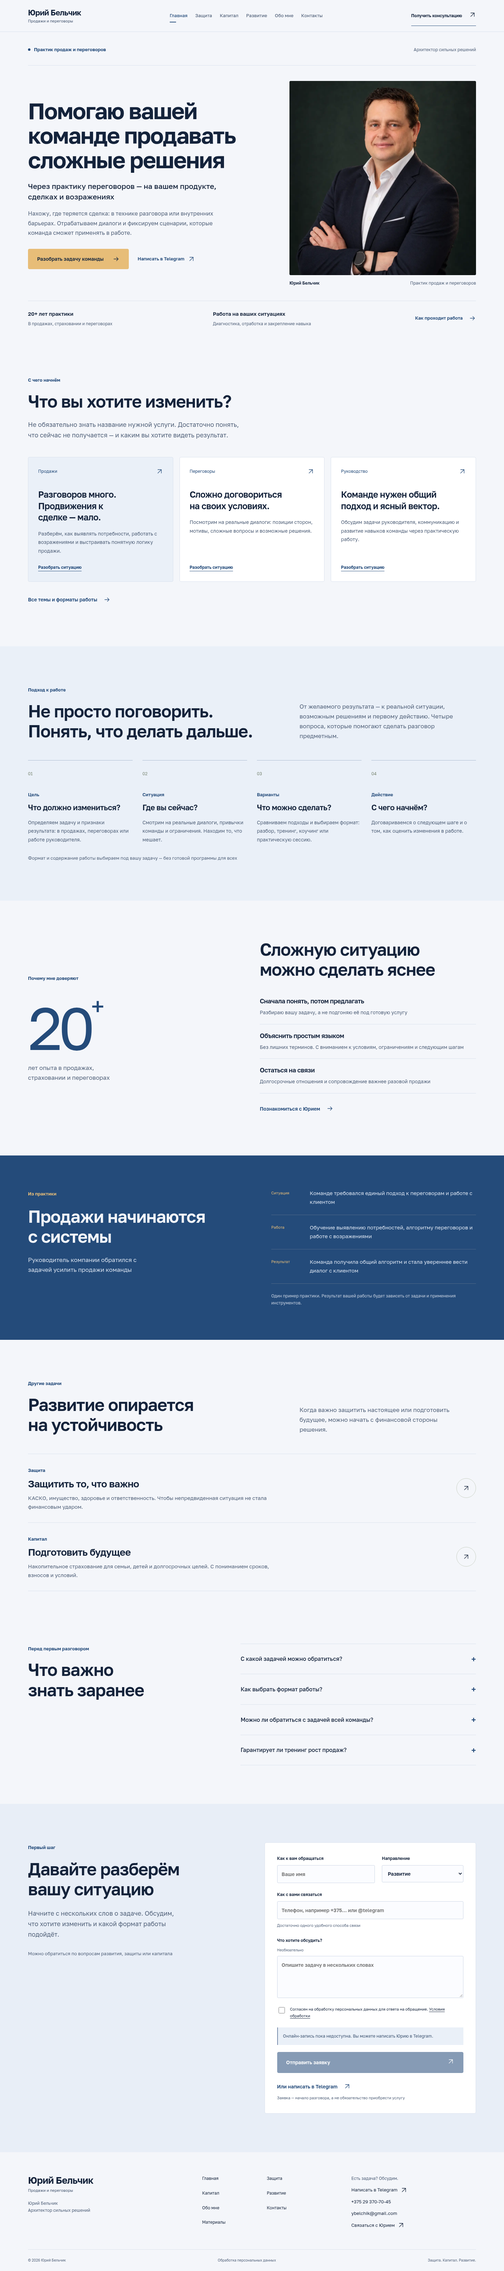
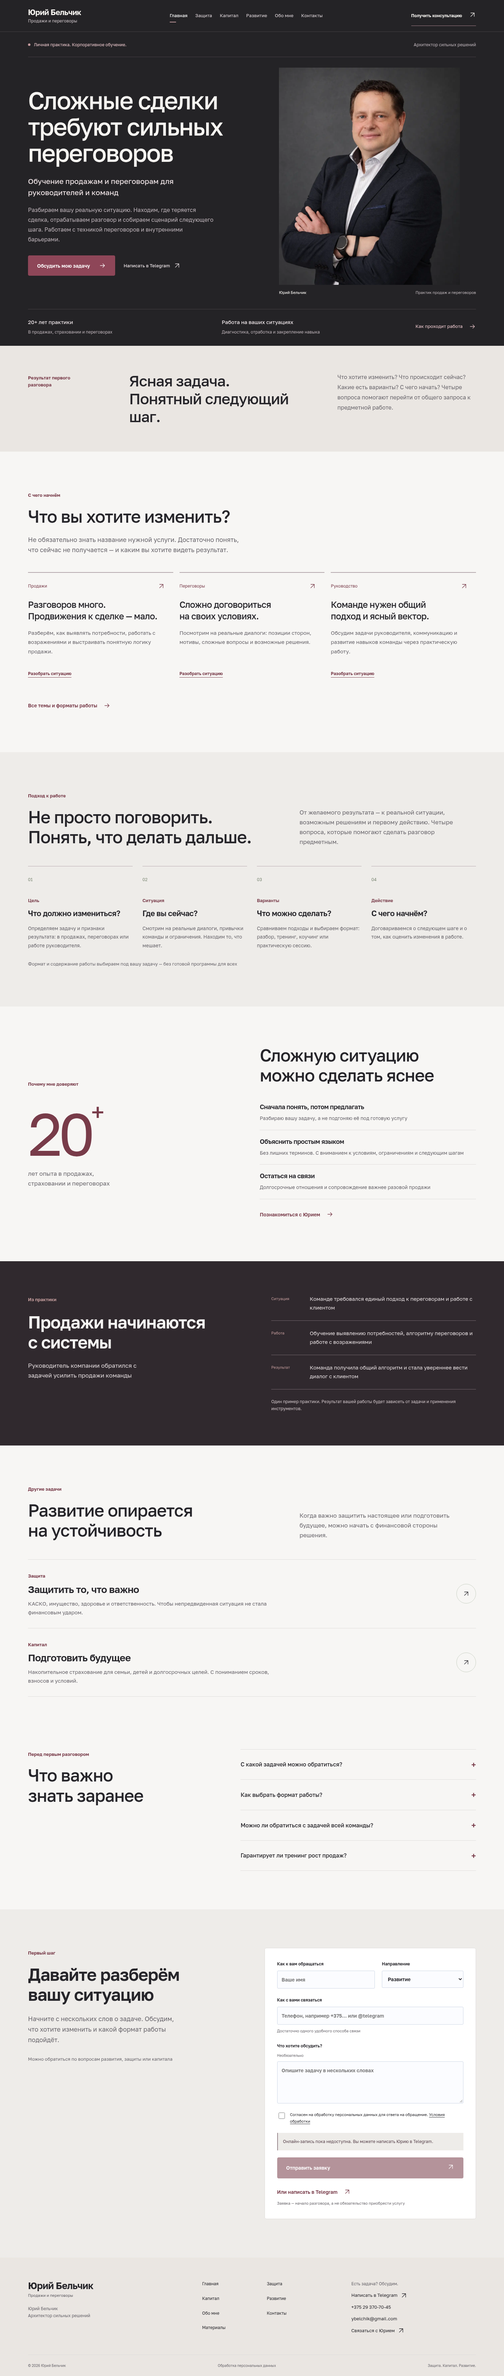
Refine business presentation with graphite palette and natural portrait

diff --git a/site/app/globals.css b/site/app/globals.css
@@ -1,13 +1,13 @@
 :root {
-  --paper: #f4f6fa;
+  --paper: #f7f6f4;
   --white: #fff;
-  --ink: #14233b;
-  --muted: #52627a;
-  --primary: #244b7a;
-  --primary-dark: #142d4d;
-  --accent: #e7bd78;
-  --line: #d9e1ed;
-  --soft: #eaf0f8;
+  --ink: #26252a;
+  --muted: #68656b;
+  --primary: #783b49;
+  --primary-dark: #382a30;
+  --accent: #c29b9b;
+  --line: #dedbda;
+  --soft: #eeece9;
 }
 * {
   box-sizing: border-box;
@@ -558,7 +558,7 @@ svg {
   gap: 28px;
 }
 .grow-step {
-  border-top: 1px solid #a7b7cf;
+  border-top: 1px solid #b5a7ad;
   padding-top: 23px;
 }
 .step-number {
@@ -631,13 +631,13 @@ svg {
   gap: 110px;
 }
 .case-section .eyebrow {
-  color: #e7bd78;
+  color: #c29b9b;
 }
 .case-section h2 {
   margin-top: 24px;
 }
 .case-section p {
-  color: #d6e0ee;
+  color: #e2dbdd;
 }
 .case-intro {
   font-size: 17px;
@@ -649,13 +649,13 @@ svg {
   grid-template-columns: 85px 1fr;
   gap: 25px;
   padding: 23px 0;
-  border-bottom: 1px solid #526a89;
+  border-bottom: 1px solid #776970;
 }
 .case-story > div:first-child {
   padding-top: 0;
 }
 .case-story > div > span {
-  color: #e7bd78;
+  color: #c29b9b;
   font-size: 11px;
   padding-top: 3px;
 }
@@ -667,7 +667,7 @@ svg {
   font-size: 12px;
   line-height: 1.7;
   margin-top: 25px;
-  color: #c4cfdf;
+  color: #d0c5c9;
 }
 .other-directions {
   border-top: 1px solid var(--line);
@@ -743,7 +743,7 @@ details > p {
   line-height: 1.8;
 }
 .cta-section {
-  background: #e6edf7;
+  background: #ede9e6;
   padding: 75px 0;
 }
 .cta-inner {
@@ -760,7 +760,7 @@ details > p {
   max-width: 560px;
   margin-top: 20px;
   font-size: 16px;
-  color: #405773;
+  color: #59434c;
 }
 .cta-inner .button {
   flex-shrink: 0;
@@ -839,7 +839,7 @@ details > p {
   margin-top: 32px;
 }
 .development-hero {
-  background: #e8eef7;
+  background: #eeece9;
 }
 .simple-grid {
   display: grid;
@@ -917,7 +917,7 @@ details > p {
   gap: 35px;
 }
 .format-grid > article {
-  border-top: 1px solid #adbbcf;
+  border-top: 1px solid #b8aeb2;
   padding-top: 24px;
 }
 .format-grid p {
@@ -934,7 +934,7 @@ details > p {
 }
 .benefit-list li {
   padding: 20px 0;
-  border-bottom: 1px solid #526a89;
+  border-bottom: 1px solid #776970;
   font-size: 20px;
   line-height: 1.4;
 }
@@ -1080,9 +1080,9 @@ details > p {
 .form-notice {
   padding: 15px;
   background: var(--soft);
-  border-left: 2px solid #7489a8;
+  border-left: 2px solid #96838a;
   font-size: 12px;
-  color: #3f5572;
+  color: #59434c;
   margin: 20px 0;
 }
 .form-error {
@@ -1917,7 +1917,7 @@ details > p {
   width: 100%;
 }
 .home-consultation {
-  background: #e8eef7;
+  background: #eeece9;
 }
 .home-consultation h2 {
   margin-top: 20px;
@@ -1934,8 +1934,15 @@ details > p {
 .portrait-frame img { object-position: 50% 15%; }
 
 /* Revised identity, typography and first-screen proposition. */
-h1,h2,h3{font-weight:600;letter-spacing:-.025em}body{line-height:1.65}.wordmark{display:flex;flex-direction:column;align-items:flex-start;gap:5px;font-size:22px;font-weight:650;letter-spacing:-.025em;white-space:nowrap;flex-shrink:0}.brand-name{line-height:1.15}.brand-tagline{font-size:11px;font-weight:450;color:var(--muted);letter-spacing:.005em;line-height:1.3}.main-nav{gap:22px}.header-inner{gap:25px}.hero-grid{grid-template-columns:1.28fr 1fr;gap:65px;padding:44px 0 40px}.hero-copy h1{font-size:clamp(44px,4.5vw,66px);font-weight:650;line-height:1.08;letter-spacing:-.035em;max-width:720px;text-wrap:balance}.hero-subtitle{font-size:21px;line-height:1.45;font-weight:500;max-width:560px;margin-top:25px}.hero-description{font-size:16px;line-height:1.7;max-width:560px;margin-top:20px}.hero-actions .button{background:#e7bd78;color:#17283f;border-color:#e7bd78;font-size:14px;min-height:58px}.hero-actions .button:hover{background:#f0ce96}.hero-actions .text-link{font-size:13px}.hero-proof{display:grid;grid-template-columns:1fr 1.1fr auto;gap:35px;align-items:center;border-top:1px solid var(--line);padding:24px 0 27px}.hero-proof>div{display:flex;flex-direction:column;gap:6px}.hero-proof strong{font-size:15px;font-weight:600}.hero-proof span{font-size:12px;color:var(--muted)}.hero-proof .text-link{font-size:13px}.portrait figcaption{font-size:12px}.section-intro .eyebrow,.eyebrow{font-size:13px}.footer-top .wordmark{font-size:27px}.cta-inner .button{background:var(--primary);color:white}.main-nav a{font-weight:450}.section-intro>p{line-height:1.65}
+h1,h2,h3{font-weight:600;letter-spacing:-.025em}body{line-height:1.65}.wordmark{display:flex;flex-direction:column;align-items:flex-start;gap:5px;font-size:22px;font-weight:650;letter-spacing:-.025em;white-space:nowrap;flex-shrink:0}.brand-name{line-height:1.15}.brand-tagline{font-size:11px;font-weight:450;color:var(--muted);letter-spacing:.005em;line-height:1.3}.main-nav{gap:22px}.header-inner{gap:25px}.hero-grid{grid-template-columns:1.28fr 1fr;gap:65px;padding:44px 0 40px}.hero-copy h1{font-size:clamp(44px,4.5vw,66px);font-weight:650;line-height:1.08;letter-spacing:-.035em;max-width:720px;text-wrap:balance}.hero-subtitle{font-size:21px;line-height:1.45;font-weight:500;max-width:560px;margin-top:25px}.hero-description{font-size:16px;line-height:1.7;max-width:560px;margin-top:20px}.hero-actions .button{background:#c29b9b;color:#282329;border-color:#c29b9b;font-size:14px;min-height:58px}.hero-actions .button:hover{background:#d8b9b7}.hero-actions .text-link{font-size:13px}.hero-proof{display:grid;grid-template-columns:1fr 1.1fr auto;gap:35px;align-items:center;border-top:1px solid var(--line);padding:24px 0 27px}.hero-proof>div{display:flex;flex-direction:column;gap:6px}.hero-proof strong{font-size:15px;font-weight:600}.hero-proof span{font-size:12px;color:var(--muted)}.hero-proof .text-link{font-size:13px}.portrait figcaption{font-size:12px}.section-intro .eyebrow,.eyebrow{font-size:13px}.footer-top .wordmark{font-size:27px}.cta-inner .button{background:var(--primary);color:white}.main-nav a{font-weight:450}.section-intro>p{line-height:1.65}
 @media(min-width:1500px){.hero-copy h1{font-size:70px}.hero-grid{padding-top:50px;padding-bottom:45px}}
 @media(max-width:1150px){.wordmark{font-size:21px}.main-nav{gap:16px}.header-inner{gap:18px}.header-consult{max-width:175px;font-size:11px}.hero-grid{gap:35px}.hero-copy h1{font-size:53px}.hero-subtitle{font-size:19px}.hero-description{font-size:15px}.hero-proof{gap:20px}}
 @media(max-width:900px){.main-nav{gap:15px}.wordmark{font-size:20px}.brand-tagline{font-size:10px}.hero-copy h1{font-size:43px}.hero-subtitle{font-size:17px}.hero-description{font-size:14px}.hero-grid{gap:28px}.hero-proof{grid-template-columns:1fr 1fr;gap:20px}.hero-proof .text-link{grid-column:1/-1}.hero-proof strong{font-size:14px}}
 @media(max-width:650px){.wordmark{font-size:21px;gap:4px}.brand-tagline{font-size:10px}.header-inner{height:78px}.main-nav{top:78px}.hero-copy h1{font-size:clamp(35px,9.6vw,49px);font-weight:650;line-height:1.12;letter-spacing:-.03em}.hero-grid{grid-template-columns:1fr;padding-top:28px;padding-bottom:30px;gap:35px}.hero-subtitle{font-size:20px;max-width:none;line-height:1.45;margin-top:22px}.hero-description{font-size:16px;line-height:1.7;max-width:none;margin-top:19px}.hero-actions{gap:17px;margin-top:27px}.hero-actions .button{font-size:14px;width:100%;justify-content:space-between}.hero-actions .text-link{font-size:14px}.hero-proof{grid-template-columns:1fr;gap:23px;padding:25px 0}.hero-proof .text-link{grid-column:auto}.hero-proof strong{font-size:16px}.hero-proof span{font-size:13px}.hero-topline .eyebrow{font-size:11px}.hero-descriptor{font-size:10px;max-width:115px}.portrait figcaption{font-size:11px}.footer-top .wordmark{font-size:26px}.hero-portrait .portrait-frame{aspect-ratio:4/4.5}}
+
+/* Executive editorial direction: one immersive opening scene, restrained wine accents. */
+.site-header{background:#242326;border-bottom:1px solid #454145;color:#f7f5f1}.site-header .brand-tagline{color:#c1b9bd;font-size:12px}.site-header .main-nav a{color:#d0c8cc}.site-header .main-nav a:hover,.site-header .main-nav a[aria-current=page]{color:white}.site-header .main-nav a[aria-current=page]:after{background:#c49a9e}.header-consult{color:#f7f5f1;border-color:#aa858e;font-size:12px}.hero{background:#242326;color:#f7f5f1;padding-top:27px}.hero-topline{border-color:#484146;padding-bottom:24px}.hero .eyebrow{color:#e0bec3;font-size:12px;font-weight:450}.hero .status-dot{background:#c49a9e}.hero-descriptor{color:#bfb5bb}.hero-grid{grid-template-columns:1.15fr 1fr;gap:70px;padding:30px 0 38px}.hero-copy h1{font-size:clamp(46px,4.8vw,70px);font-weight:500;letter-spacing:-.035em;line-height:1.08;max-width:670px}.hero-subtitle{color:#f0e5e7;font-size:21px;font-weight:450;line-height:1.5;max-width:550px;margin-top:29px}.hero-description{color:#bfb5bb;font-size:16px;max-width:530px;line-height:1.75;margin-top:20px}.hero-actions{gap:24px;margin-top:32px}.hero-actions .button{background:#8e4658;border-color:#8e4658;color:#fff;min-height:58px}.hero-actions .button:hover{background:#a45569}.hero-actions .text-link{color:#eee5e8;font-weight:450}.hero-portrait .portrait-frame{aspect-ratio:4/4.8;max-height:620px;border-radius:0;background:#444143}.hero-portrait .portrait-frame img{object-position:50% 15%}.hero-portrait figcaption{color:#c1b9bd;font-size:11px}.hero-portrait figcaption span:first-child{color:#f7f5f1;font-weight:450}.hero-proof{border-color:#484146;grid-template-columns:1fr 1fr auto;padding:24px 0 30px}.hero-proof strong{font-size:15px;font-weight:450;color:#f0e8eb}.hero-proof span{color:#bfb5bb}.hero-proof .text-link{color:#e0bec3;font-weight:450}.executive-brief{padding:75px 0;background:#eae6e2}.executive-brief-inner{display:grid;grid-template-columns:.65fr 1.5fr 1.1fr;gap:55px;align-items:start}.executive-brief h2{font-size:clamp(30px,3vw,44px);font-weight:500;line-height:1.17}.executive-brief p{font-size:16px;line-height:1.8}.executive-brief .eyebrow{max-width:150px;padding-top:7px}.task-card{border:0;border-top:2px solid #b2a5aa;border-radius:0;background:transparent;padding:28px 24px 30px 0}.task-card:first-child{background:transparent}.task-card-top{margin-bottom:27px}.task-card h3{font-size:25px;font-weight:500}.task-card p{font-size:15px}.section-intro h2,.trust-body h2{font-weight:500}.case-section{background:#30292e}.cta-section{background:#eae6e2}.cta-inner .button{background:#783b49;border-color:#783b49}.home-consultation{background:#eeece9}.portrait-frame{border-radius:0}.format-grid h3{font-weight:500}.site-footer{background:#eae6e2}.speaking-photo img{border-radius:0}
+@media(min-width:1500px){.hero-copy h1{font-size:76px}.hero-grid{gap:85px}.hero-portrait .portrait-frame{max-height:660px}}
+@media(max-width:1150px){.hero-copy h1{font-size:55px}.hero-grid{gap:38px}.executive-brief-inner{gap:30px;grid-template-columns:.7fr 1.4fr 1.2fr}}
+@media(max-width:900px){.hero-copy h1{font-size:45px}.hero-subtitle{font-size:18px}.hero-description{font-size:15px}.hero-grid{gap:28px}.hero-proof{grid-template-columns:1fr 1fr}.hero-proof .text-link{grid-column:1/-1}.executive-brief-inner{grid-template-columns:1fr 1.5fr;gap:25px}.executive-brief-inner>.eyebrow{grid-column:1/-1;max-width:none}}
+@media(max-width:650px){.menu-toggle{color:#f4edef}.site-header .main-nav{background:#242326;border-color:#484146}.site-header .main-nav .mobile-consult{background:#8e4658}.hero{padding-top:22px}.hero-grid{grid-template-columns:1fr;padding-top:27px;gap:30px}.hero-copy h1{font-size:clamp(38px,10vw,50px);line-height:1.1;font-weight:500}.hero-subtitle{font-size:20px;margin-top:24px}.hero-description{font-size:16px;line-height:1.7}.hero-topline .eyebrow{max-width:175px;font-size:10px;line-height:1.7}.hero-descriptor{font-size:10px}.hero-actions .button{width:100%;justify-content:space-between}.hero-actions .text-link{font-size:14px}.hero-portrait .portrait-frame{aspect-ratio:4/4.7;max-height:none}.hero-proof{grid-template-columns:1fr;gap:23px}.hero-proof .text-link{grid-column:auto}.executive-brief{padding:45px 0}.executive-brief-inner{grid-template-columns:1fr;gap:20px}.executive-brief h2{font-size:34px}.executive-brief p{font-size:15px}.task-card{padding:25px 0}.site-header .brand-tagline{font-size:11px}}

diff --git a/site/app/page.tsx b/site/app/page.tsx
@@ -16,7 +16,7 @@ export default function Home() {
         "@id": `${siteUrl}/#yuri`,
         name: "Юрий Бельчик",
         url: siteUrl,
-        image: `${siteUrl}/images/yuri-belchik-portrait-retouched.png`,
+        image: `${siteUrl}/images/yuri-belchik-natural.png`,
         telephone: contact.phone,
         email: contact.email,
         sameAs: [contact.telegram],
@@ -52,7 +52,7 @@ export default function Home() {
           <div className="hero-topline">
             <span className="eyebrow">
               <span className="status-dot" />
-              Практик продаж и переговоров
+              Личная практика. Корпоративное обучение.
             </span>
             <span className="hero-descriptor">Архитектор сильных решений</span>
           </div>
@@ -63,7 +63,7 @@ export default function Home() {
               <p className="hero-description">{proposition.description}</p>
               <div className="hero-actions">
                 <Link href={consultation()} className="button">
-                  Разобрать задачу команды <Arrow />
+                  Обсудить мою задачу <Arrow />
                 </Link>
                 {contact.telegram ? (
                   <a
@@ -89,6 +89,7 @@ export default function Home() {
           </div>
         </div>
       </section>
+      <section className="executive-brief"><div className="container executive-brief-inner"><span className="eyebrow">Результат первого разговора</span><h2>Ясная задача.<br/>Понятный следующий шаг.</h2><p>Что хотите изменить? Что происходит сейчас? Какие есть варианты? С чего начать? Четыре вопроса помогают перейти от общего запроса к предметной работе.</p></div></section>
       <section id="tasks" className="section">
         <div className="container">
           <SectionIntro

diff --git a/site/app/razvitie/page.tsx b/site/app/razvitie/page.tsx
@@ -72,7 +72,7 @@ export default function Development() {
         </div>
       </section>
       <section className="section speaking-section"><div className="container speaking-layout">
-        <figure className="speaking-photo"><Image src="/images/yuri-belchik-speaking-retouched.png" alt="Юрий Бельчик выступает перед аудиторией" width={1536} height={1024} sizes="(max-width: 650px) 100vw, 55vw" /></figure>
+        <figure className="speaking-photo"><Image src="/images/yuri-belchik-speaking.jpg" alt="Юрий Бельчик выступает перед аудиторией" width={1280} height={853} sizes="(max-width: 650px) 100vw, 55vw" /></figure>
         <div><SectionIntro label="Команды и аудитории" title="Практика, которую можно перенести в работу" text="Выступаю как спикер и провожу корпоративные тренинги для отделов продаж. Разбираем реальные переговоры, возражения, разговоры о деньгах и сложные продукты."/><p>Сначала — диагностика текущих диалогов. Затем — отработка формулировок и закрепление навыков с понятными критериями качества.</p><Link className="text-link" href={consultation()}>Обсудить выступление или тренинг <Arrow /></Link></div>
       </div></section>
       <section className="section">

diff --git a/site/lib/site.ts b/site/lib/site.ts
@@ -14,9 +14,9 @@ export const navigation = [
   ["/kontakty", "Контакты"],
 ];
 export const proposition = {
-  headline: "Помогаю вашей команде продавать сложные решения",
-  subheadline: "Через практику переговоров — на вашем продукте, сделках и возражениях",
-  description: "Нахожу, где теряется сделка: в технике разговора или внутренних барьерах. Отрабатываем диалоги и фиксируем сценарии, которые команда сможет применять в работе.",
+  headline: "Сложные сделки требуют сильных переговоров",
+  subheadline: "Обучение продажам и переговорам для руководителей и команд",
+  description: "Разбираем вашу реальную ситуацию. Находим, где теряется сделка, отрабатываем разговор и собираем сценарий следующего шага. Работаем с техникой переговоров и внутренними барьерами.",
 };
 export const directions = [
   {

diff --git a/site/components/portrait.tsx b/site/components/portrait.tsx
@@ -1,7 +1,7 @@
 import Image from "next/image";
 export function Portrait({ hero = false }: { hero?: boolean }) {
   return <figure className={hero ? "portrait hero-portrait" : "portrait about-portrait"}>
-    <div className="portrait-frame"><Image src="/images/yuri-belchik-portrait-retouched.png" alt="Юрий Бельчик — практик продаж и переговоров" fill sizes={hero ? "(max-width: 650px) 100vw, 45vw" : "(max-width: 650px) 100vw, 40vw"} preload={hero} /></div>
+    <div className="portrait-frame"><Image src="/images/yuri-belchik-natural.png" alt="Юрий Бельчик — практик продаж и переговоров" fill sizes={hero ? "(max-width: 650px) 100vw, 45vw" : "(max-width: 650px) 100vw, 40vw"} preload={hero} /></div>
     <figcaption><span>Юрий Бельчик</span><span>Практик продаж и переговоров</span></figcaption>
   </figure>;
 }

diff --git a/site/app/opengraph-image.tsx b/site/app/opengraph-image.tsx
@@ -7,7 +7,7 @@ export default function Image() {
   return new ImageResponse(
     <div
       style={{
-        background: "#142d4d",
+        background: "#242326",
         color: "#f4f6fa",
         width: "100%",
         height: "100%",
@@ -35,9 +35,9 @@ export default function Image() {
           maxWidth: 1000,
         }}
       >
-        Помогаю командам продавать сложные решения
+        Сложные сделки требуют сильных переговоров
       </div>
-      <div style={{ fontSize: 27, display: "flex", color: "#e7bd78" }}>
+      <div style={{ fontSize: 27, display: "flex", color: "#d0b6bd" }}>
         Продажи • Переговоры • Развитие руководителей
       </div>
     </div>,

diff --git a/BRAND_BOOK.md b/BRAND_BOOK.md
@@ -1,18 +1,13 @@
-# CKB.by — визуальная система MVP
+# CKB.by — актуальная визуальная система
 
-Приоритет: развитие. Тон — спокойный практик, который помогает разобраться и выбрать действие. Бренд «Юрий Бельчик — архитектор сильных решений» сохранён.
+Приоритет — продажи и переговоры для руководителей и команд. В шапке полное имя Юрий Бельчик и направление работы. УТП: «Сложные сделки требуют сильных переговоров». Формулировка раскрывается через разбор реальной ситуации, отработку разговора и сценарий следующего шага.
 
-Цвета: почти белый #F7F8F4, графит #202D29, глубокий зелёный #214B3E, мягкий зелёный #EDF0E8 и акцент #DCE7BE. Текст #63716A; границы #D9DED5. Без градиентов, неона и тяжёлых теней.
+Палитра: графит #242326 на первом экране и в шапке, светлый фон #F7F6F4, основной текст #26252A, винный акцент #783B49, кнопка на тёмном фоне #8E4658, светлые разделы #EAE6E2. Без зелёного, синего и золота.
 
-Шрифт: Manrope Variable, локально из npm-пакета @fontsource-variable/manrope с кириллицей и лицензией OFL; запросов к Google Fonts нет. Заголовки 33–88px по ширине экрана, основной текст 14–21px. Размеры и интервалы адаптивные; поля форм на мобильном от 16px.
+Шрифт Golos Text Variable с кириллицей, локально из npm-пакета, лицензия OFL. Крупные заголовки умеренной насыщенности, спокойная редакционная композиция и открытые колонки вместо повторяющихся карточек.
 
-Композиция: крупные три строки «Продажи. Переговоры. Развитие.», рядом схема ситуации и решения; затем три конкретных запроса, четыре шага обсуждения, опыт и принципы, кейс команды, дополнительные направления, FAQ, форма. Разные силуэты и плотность секций.
+Первый экран: конкретное предложение, крупный портрет, кнопка «Обсудить мою задачу». Следующий блок объясняет результат первого разговора. GROW используется для построения пути: цель, текущая ситуация, варианты, действие. Рост конверсии без измерений не заявляется.
 
-Графика: CSS-схема пути и монограмма ЮБ являются абстрактными элементами. Они не изображают реального человека; портрет пока отсутствует. Стрелки в интерфейсе — SVG, без зависимости от наличия редких символов в шрифте.
+Портрет yuri-belchik-natural.png заново обработан от исходного IMG_2499-scaled.jpg: нейтральный фон и свет, с указанием сохранить возраст, черты и фактуру кожи. Это генеративная обработка, не оригинальный снимок. На странице развития используется исходная фотография выступления. Оригиналы сохранены.
 
-Поведение: сдержанные hover, видимый фокус, Escape закрывает мобильное меню. Reduced-motion убирает переходы и плавную прокрутку. Нет навязчивых popup.
-
-Обновление: вместо схемы на первом экране используется реальный портрет с CKB.by; в биографии он заменяет монограмму. В развитии — фото выступления. Исходные фото не меняются; кадрирование выполняется адаптивным CSS, доставка — через next/image.
-
-## Актуальная версия после пересмотра
-Прежняя зелёная палитра и Manrope отклонены пользователем. Теперь: #F4F6FA фон, #14233B основной текст, #244B7A синий, #142D4D тёмный, #E7BD78 золотистый акцент, #EAF0F8 мягкое поле. Golos Text Variable (OFL), локально с кириллицей. Заголовки плотнее, letter-spacing от -0.025 до -0.035em. Бренд в шапке — полное имя и «Продажи и переговоры». Первый экран сообщает услугу, аудиторию, механизм и прикладной выход; УТП хранится централизованно в lib/site.ts.
+Адаптивная сетка, видимый фокус, мобильное меню с Escape и поддержка reduced-motion сохраняются.

diff --git a/PROJECT.md b/PROJECT.md
@@ -66,3 +66,6 @@ Install/start instructions сохранены в черновике среды; 
 
 ## Новая обратная связь: палитра, типографика и УТП
 Пользователь отклонил прежние зелёные цвета, Manrope и буквенное ckb.by в шапке; уточнил, что под «OTP» понимает УТП. Текущая версия: имя Юрий Бельчик с подписью «Продажи и переговоры» в шапке и подвале, глубокий синий/светлый фон/золотистый акцент, Golos Text Variable с кириллицей. УТП вынесено в lib/site.ts proposition: помощь командам продавать сложные решения через практику на их продукте, сделках и возражениях, с диагностикой техники и внутренних барьеров и рабочими сценариями. Не обещаются гарантии роста выручки, сроки или бесплатность. Предыдущую палитру/шрифт/логотип не возвращать. Отретушированные фото сохранены.
+
+## GROW-пересмотр визуальной подачи
+Пользователь повторно отклонил палитру, назвал подачу простой, попросил натуральное лицо и системную работу через GROW. Цель: вызвать интерес делового клиента; реальность: прежняя обработка искусственна и композиция шаблонна; вариант: цельный графитовый первый экран, винный акцент, светлые редакционные блоки, оригинал выступления; действие: обработать портрет заново от оригинала без омоложения и изменения черт, проверить адаптивность и опубликовать. Новый портрет yuri-belchik-natural.png генеративно обработан от исходного JPG; старые исходники сохранены. В развитии восстановлено оригинальное фото выступления. УТП первого экрана: сложные сделки требуют сильных переговоров; услуга и аудитория указаны прямо. Не обещать автоматический рост продаж.

diff --git a/review/validation.md b/review/validation.md
@@ -32,3 +32,8 @@
 
 ## Пересмотр палитры, шрифта и УТП
 После уточнения пользователя «OTP» означает УТП. Изменены шапка/подвал на полное имя, палитра на синий/светлый/золотистый, локальный шрифт на Golos Text Variable с кириллицей, предложение первого экрана и CTA. Build и lint прошли. Браузерные проверки восьми страниц на 1440×900, 1920×1080, 390×844, 320×640 прошли, как и интерактивные сценарии меню, формы и FAQ. Отдельно подтверждено состояние loaded у Golos в document.fonts. Новая композиция визуально проверена на 1440×1000 и 390×844.
+
+## Графитовая версия и натуральный портрет
+Production build и ESLint проходят. Семь unit-тестов проходят. Браузерная проверка: восемь страниц на 1440×900, 1920×1080, 390×844 и 320×640; меню, Escape, сценарии, FAQ, ошибки API, 404, reduced-motion, шрифт и JSON-LD проходят. После остановки лишних старых серверов полный браузерный прогон повторён успешно. Первый экран проверен визуально на desktop и mobile.
+Временная Vercel-публикация обновлена; HTTPS-проверка главной, страницы развития и нового PNG вернула 200. Это временный предпросмотр, основной домен не изменён.
+GROW: цель — предметное обращение делового клиента; текущая ситуация — неясная ценность и неестественная ретушь; варианты — натуральный исходник, спокойная композиция, конкретная услуга; действие — обсуждение задачи с понятным выходом первого разговора. Конверсия пока не измерена; максимальная эффективность не доказана.

diff --git a/content/public-sources.md b/content/public-sources.md
@@ -17,3 +17,6 @@
 
 ## Ретушь по запросу владельца
 По прямому поручению пользователя портрет и фото выступления обработаны генеративным инструментом: улучшены свет, цвет и подача. На сайте используются файлы *-retouched.png, это обработанные изображения, а не неизменённые оригиналы с CKB.by. Исходные JPG сохранены. Портрет получил новый студийный фон; снимок выступления использует исходное событие как основу. Не использовать отретушированные детали как новые доказательства фактов об эксперте.
+
+## Текущая версия: натуральная подача
+Предыдущие файлы *-retouched.png заменены в интерфейсе. Новый портрет site/public/images/yuri-belchik-natural.png создан инструментом image_gen от исходного yuri-belchik-portrait.jpg с заданием сохранить черты, возраст, асимметрию и фактуру кожи; изменены свет и фон. Генеративный результат может отличаться от оригинала. На странице развития снова используется оригинальный yuri-belchik-speaking.jpg без генеративной обработки.
